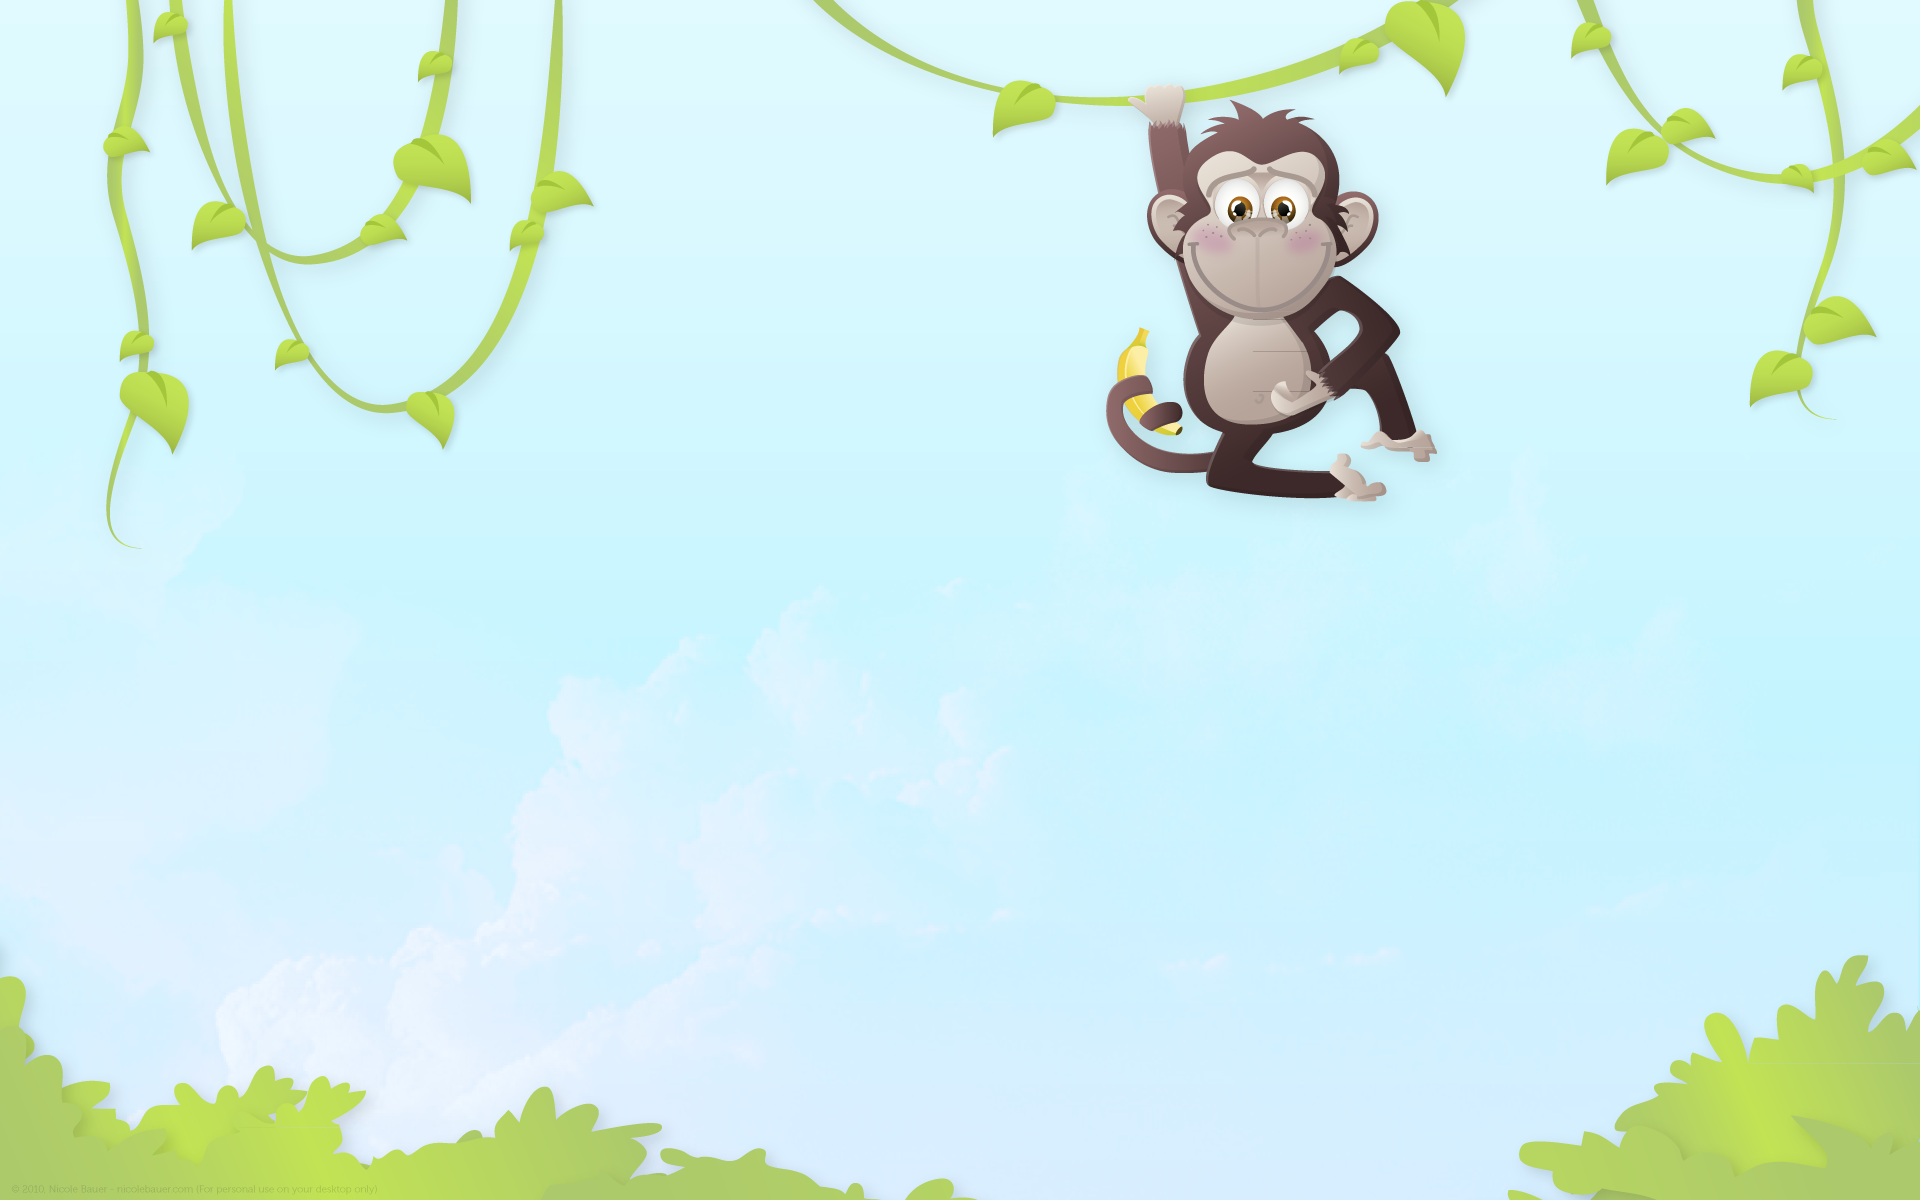
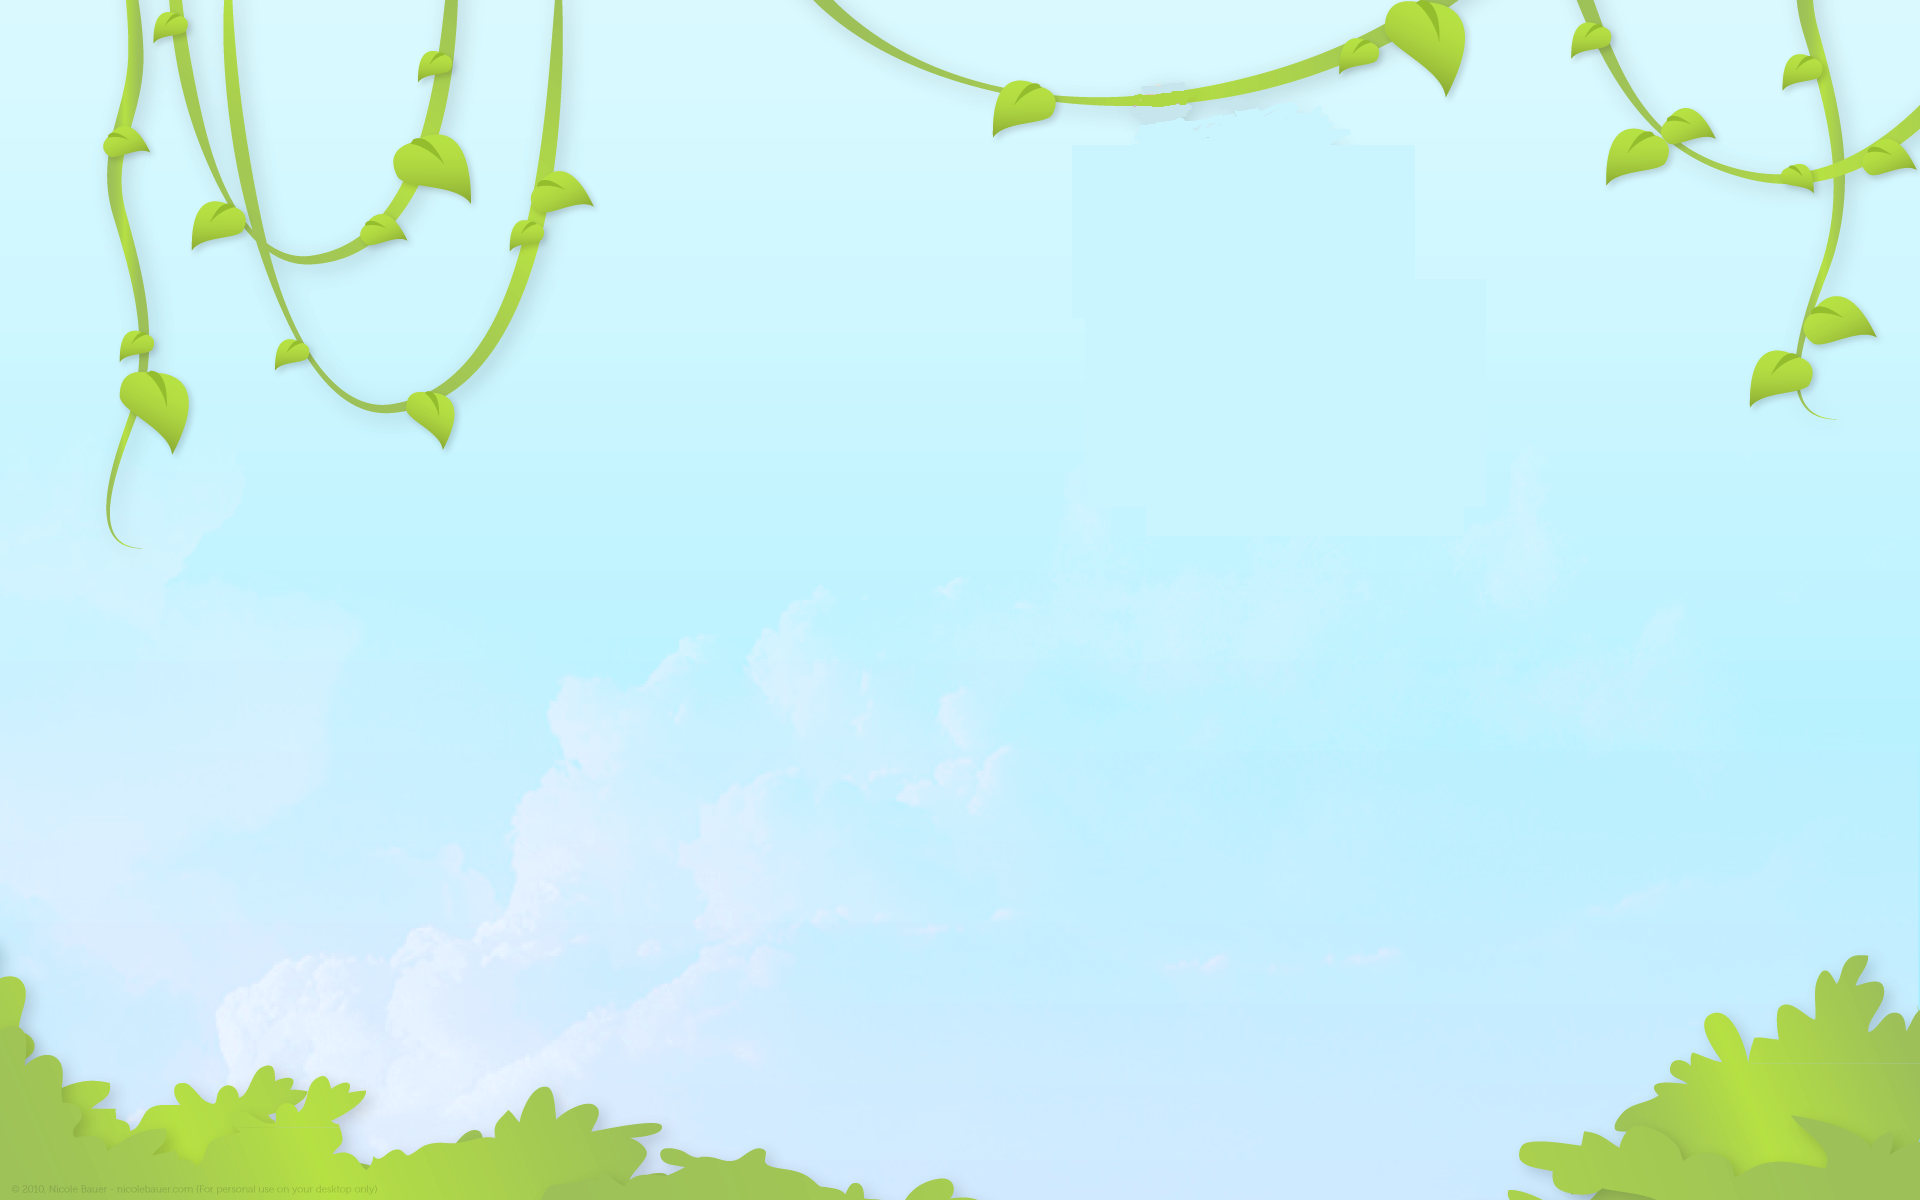
hangman animation added

Changed region(s): [[0.5625, 0.0617, 0.75, 0.4317]]

diff --git a/javascript/game.js b/javascript/game.js
@@ -33,7 +33,7 @@ var game = {
 		game.currentBoard = newBoard;
 		game.guesses = 12;
 		game.usedLetters = [];
-		document.querySelector("#monkey-div").innerHTML = '<img src="images/monkey12.png" id="monkey-pic">'
+		document.querySelector("#monkey-div").innerHTML = '<img src="images/monkey12.png" id="monkey-pic">';
 		document.querySelector("#board").innerHTML = game.currentBoard;
 		document.querySelector("#wins").innerHTML = "Wins: "+game.wins;
 		document.querySelector("#used-letters").innerHTML = "<br>";
@@ -90,6 +90,7 @@ document.onkeyup = function(event) {
 			game.currentBoard = game.currentWord.toUpperCase();
 			document.querySelector("#wins").innerHTML = "Wins: "+game.wins;
 			document.querySelector("#info-screen").innerHTML = bio[game.currentWord];
+			game.guesses = 0;
 		}
 		document.querySelector("#board").innerHTML = game.currentBoard;
 		document.querySelector("#used-letters").innerHTML = game.usedLetters;
